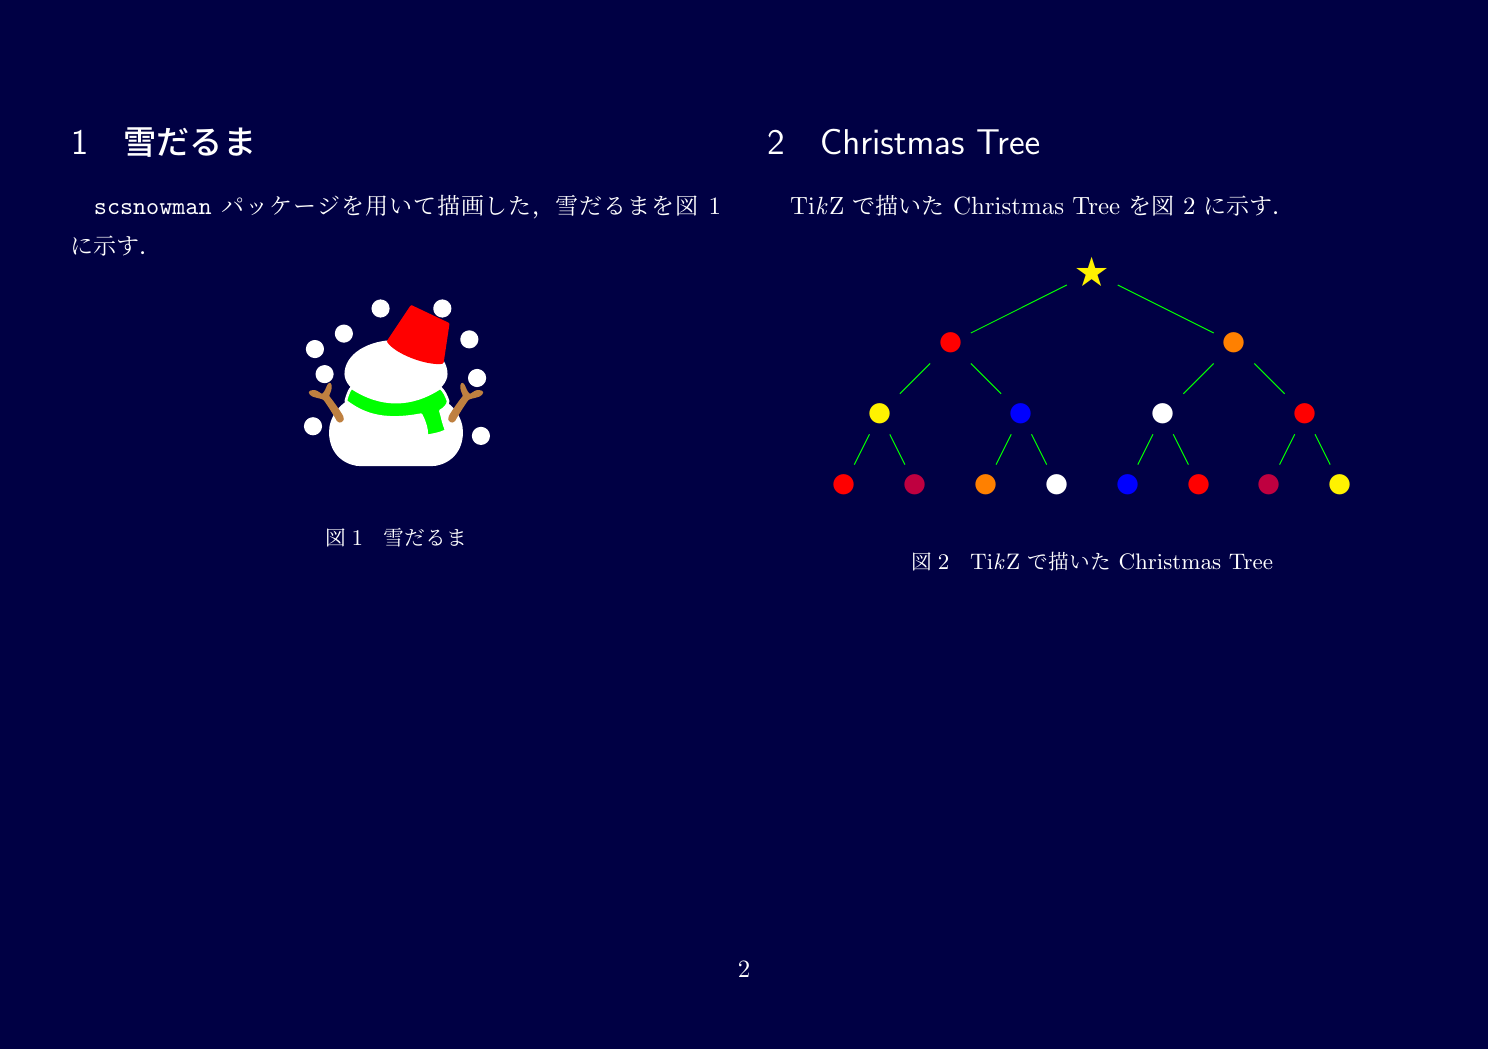
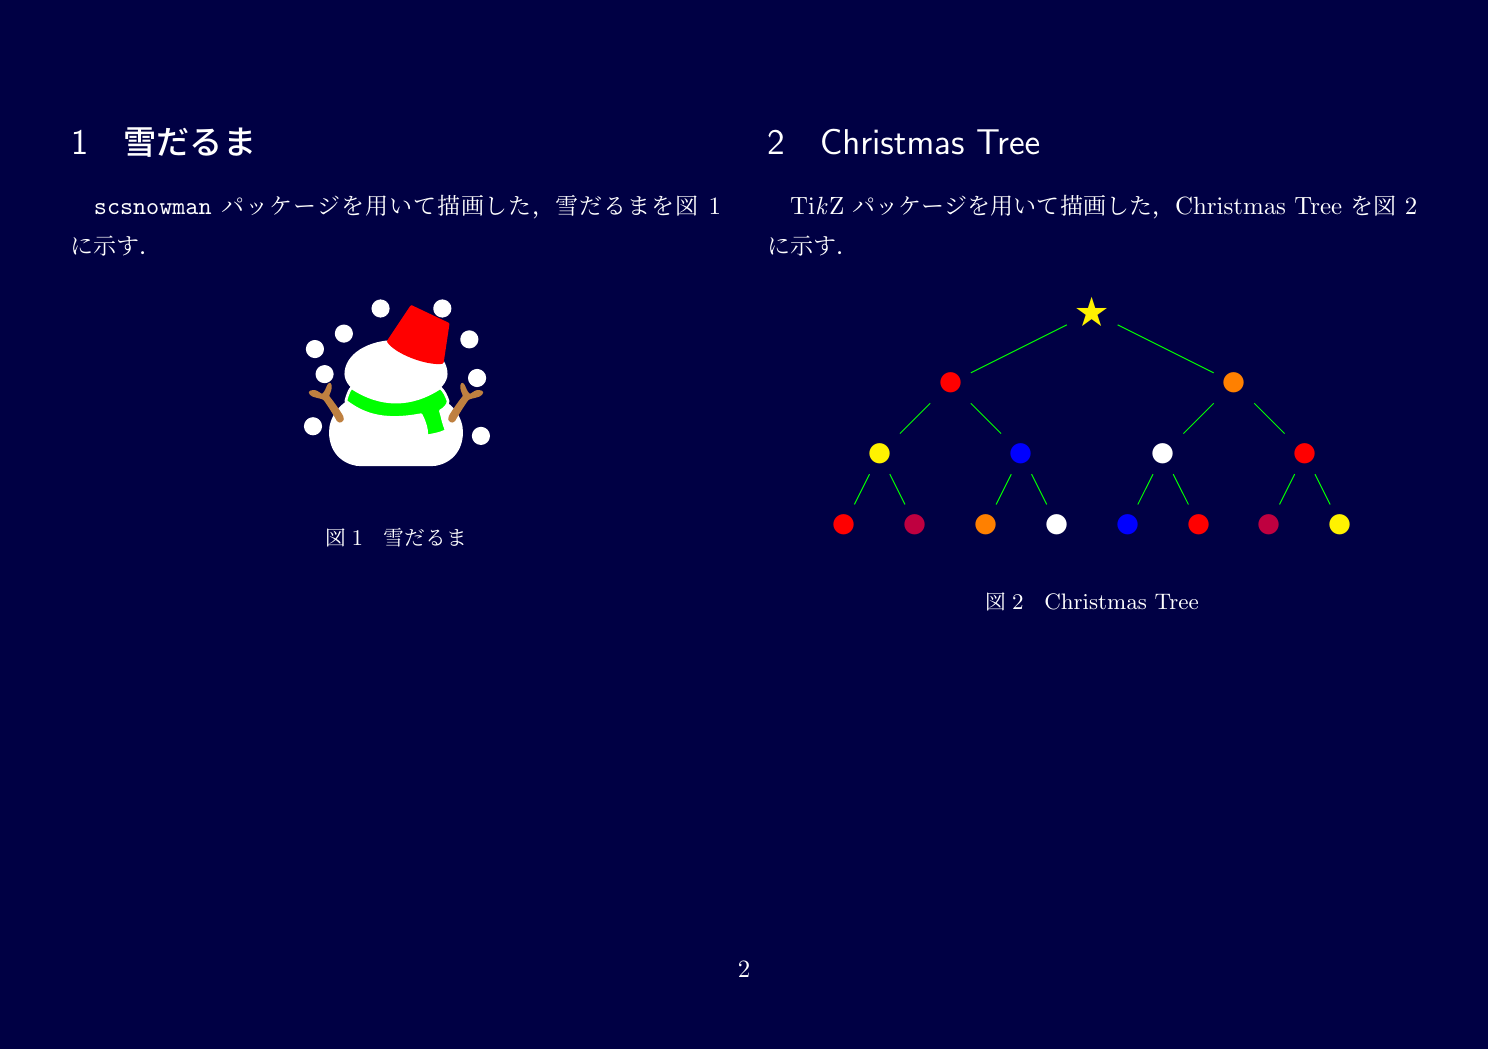
fix

diff --git a/main.tex b/main.tex
@@ -103,7 +103,8 @@ with \\
 
 \section{Christmas Tree}
 
-Ti\textit{k}Z で描いた Christmas Tree を図 \ref{fig:image} に示す．
+Ti\textit{k}Z パッケージを用いて描画した，
+Christmas Tree を図 \ref{fig:image} に示す．
 
 \begin{figure}[ht]
   \begin{center}
@@ -133,7 +134,7 @@ Ti\textit{k}Z で描いた Christmas Tree を図 \ref{fig:image} に示す．
         };
     \end{tikzpicture}
   \end{center}
-  \caption{Ti\textit{k}Z で描いた Christmas Tree}
+  \caption{Christmas Tree}
   \label{fig:image}
 \end{figure}
 
